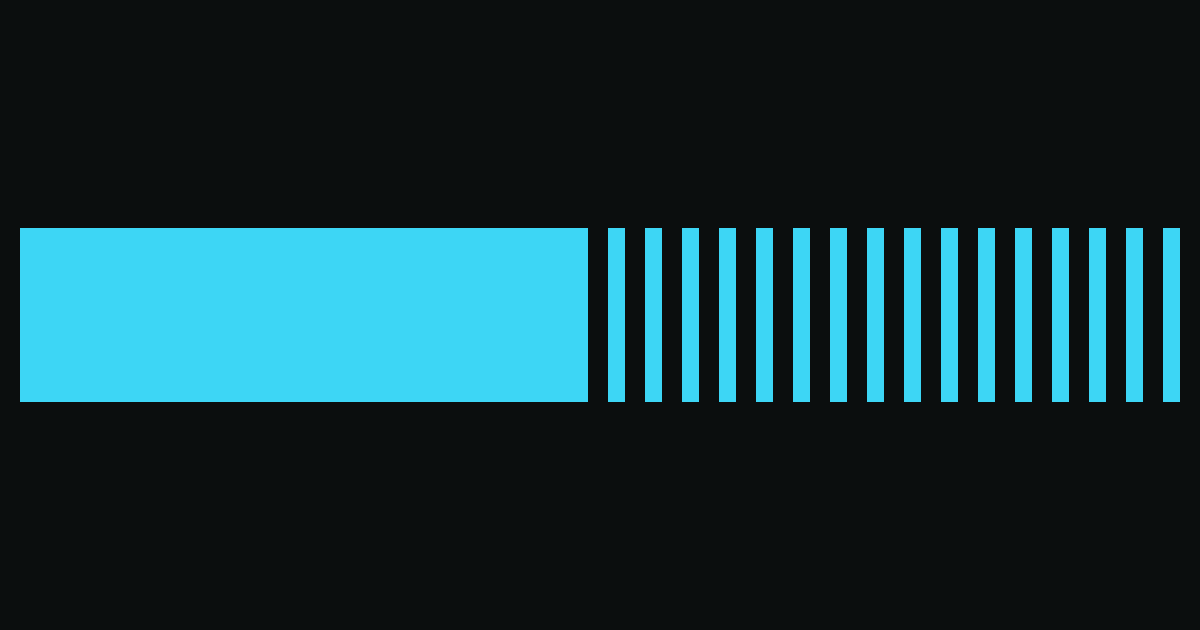
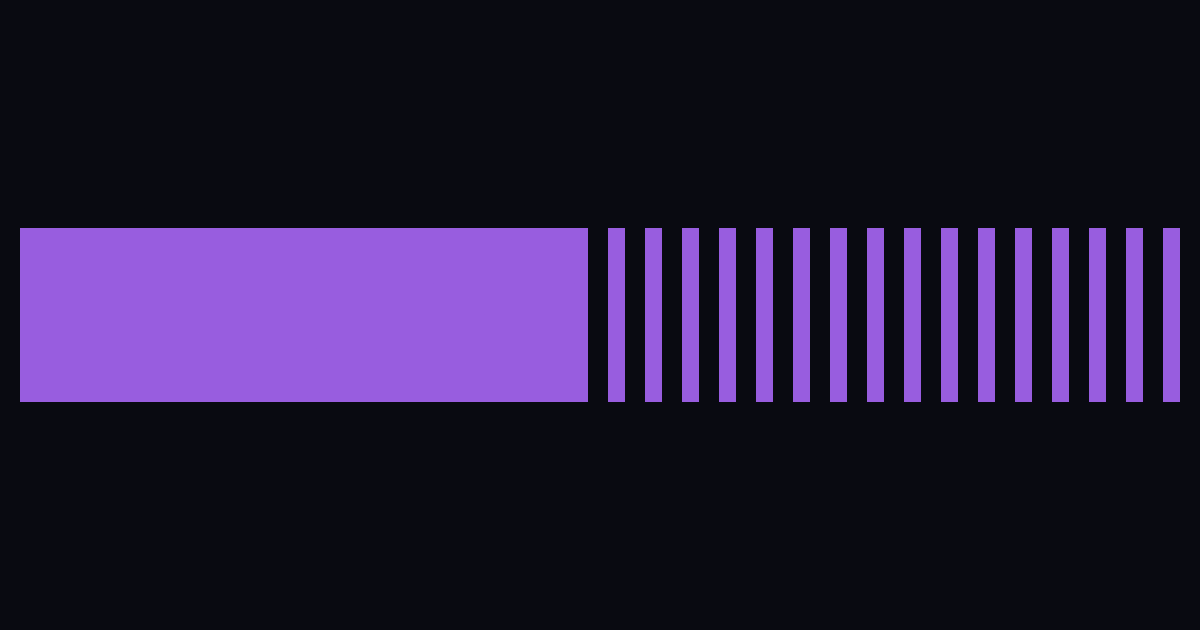
chore: update site color palette

Changed region(s): [[0.0, 0.3619, 0.9867, 0.6635]]

diff --git a/static/terminal.css b/static/terminal.css
@@ -1,7 +1,7 @@
 :root {
-  --background: #0b0e0e;
-  --foreground: #e5ebeb;
-  --accent: #3dd6f5;
+  --background: #090a11;
+  --foreground: #fcf7ff;
+  --accent: #985ddf;
   --font-size: 1rem;
   --line-height: 1.54rem;
   --radius: 0pxpx;
